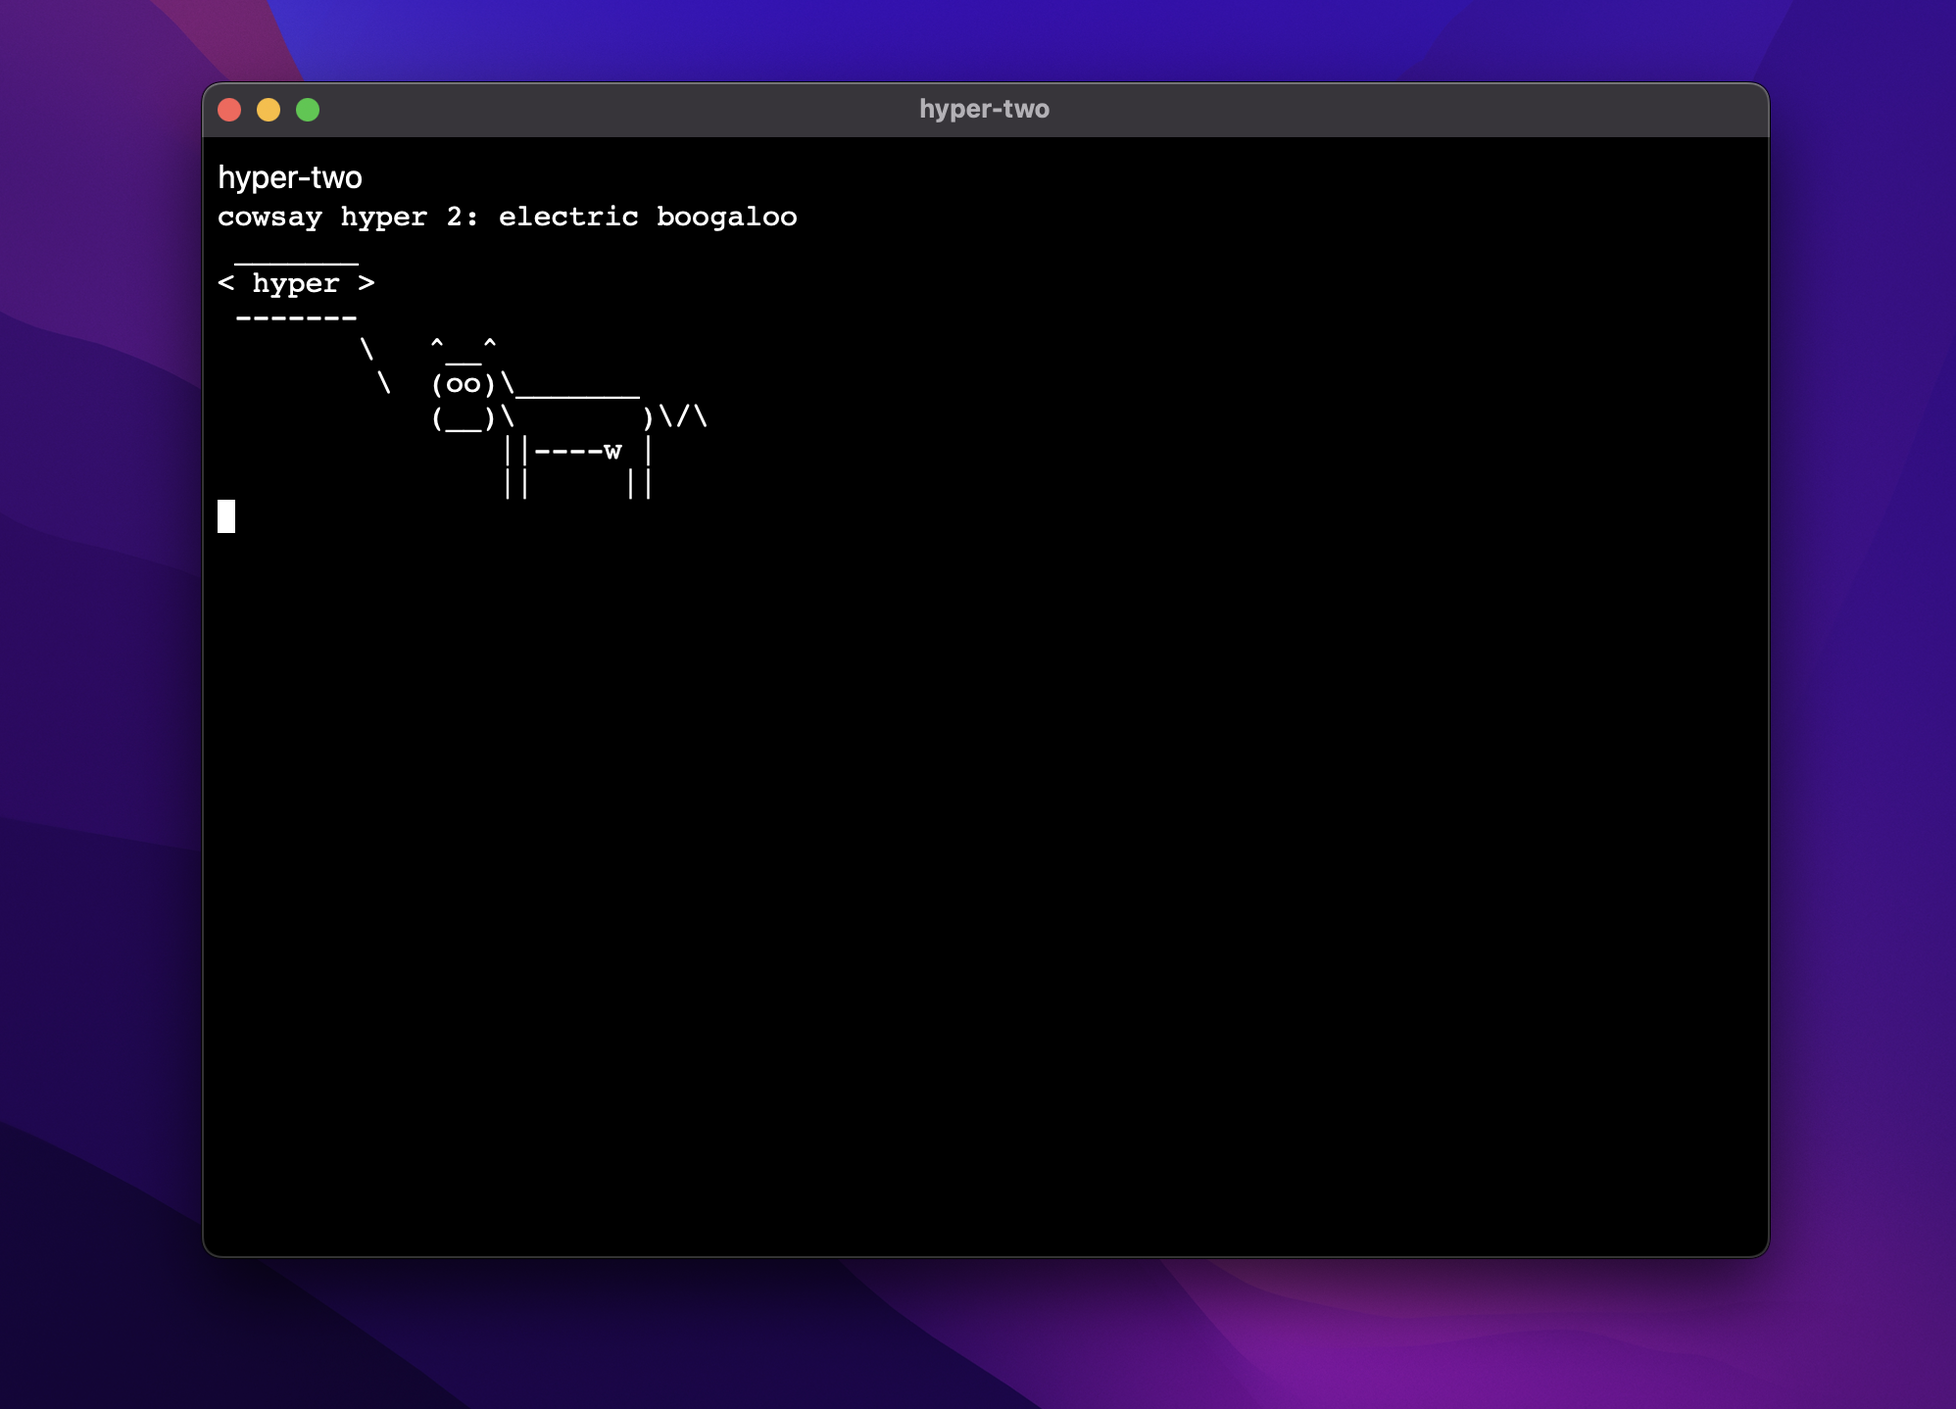
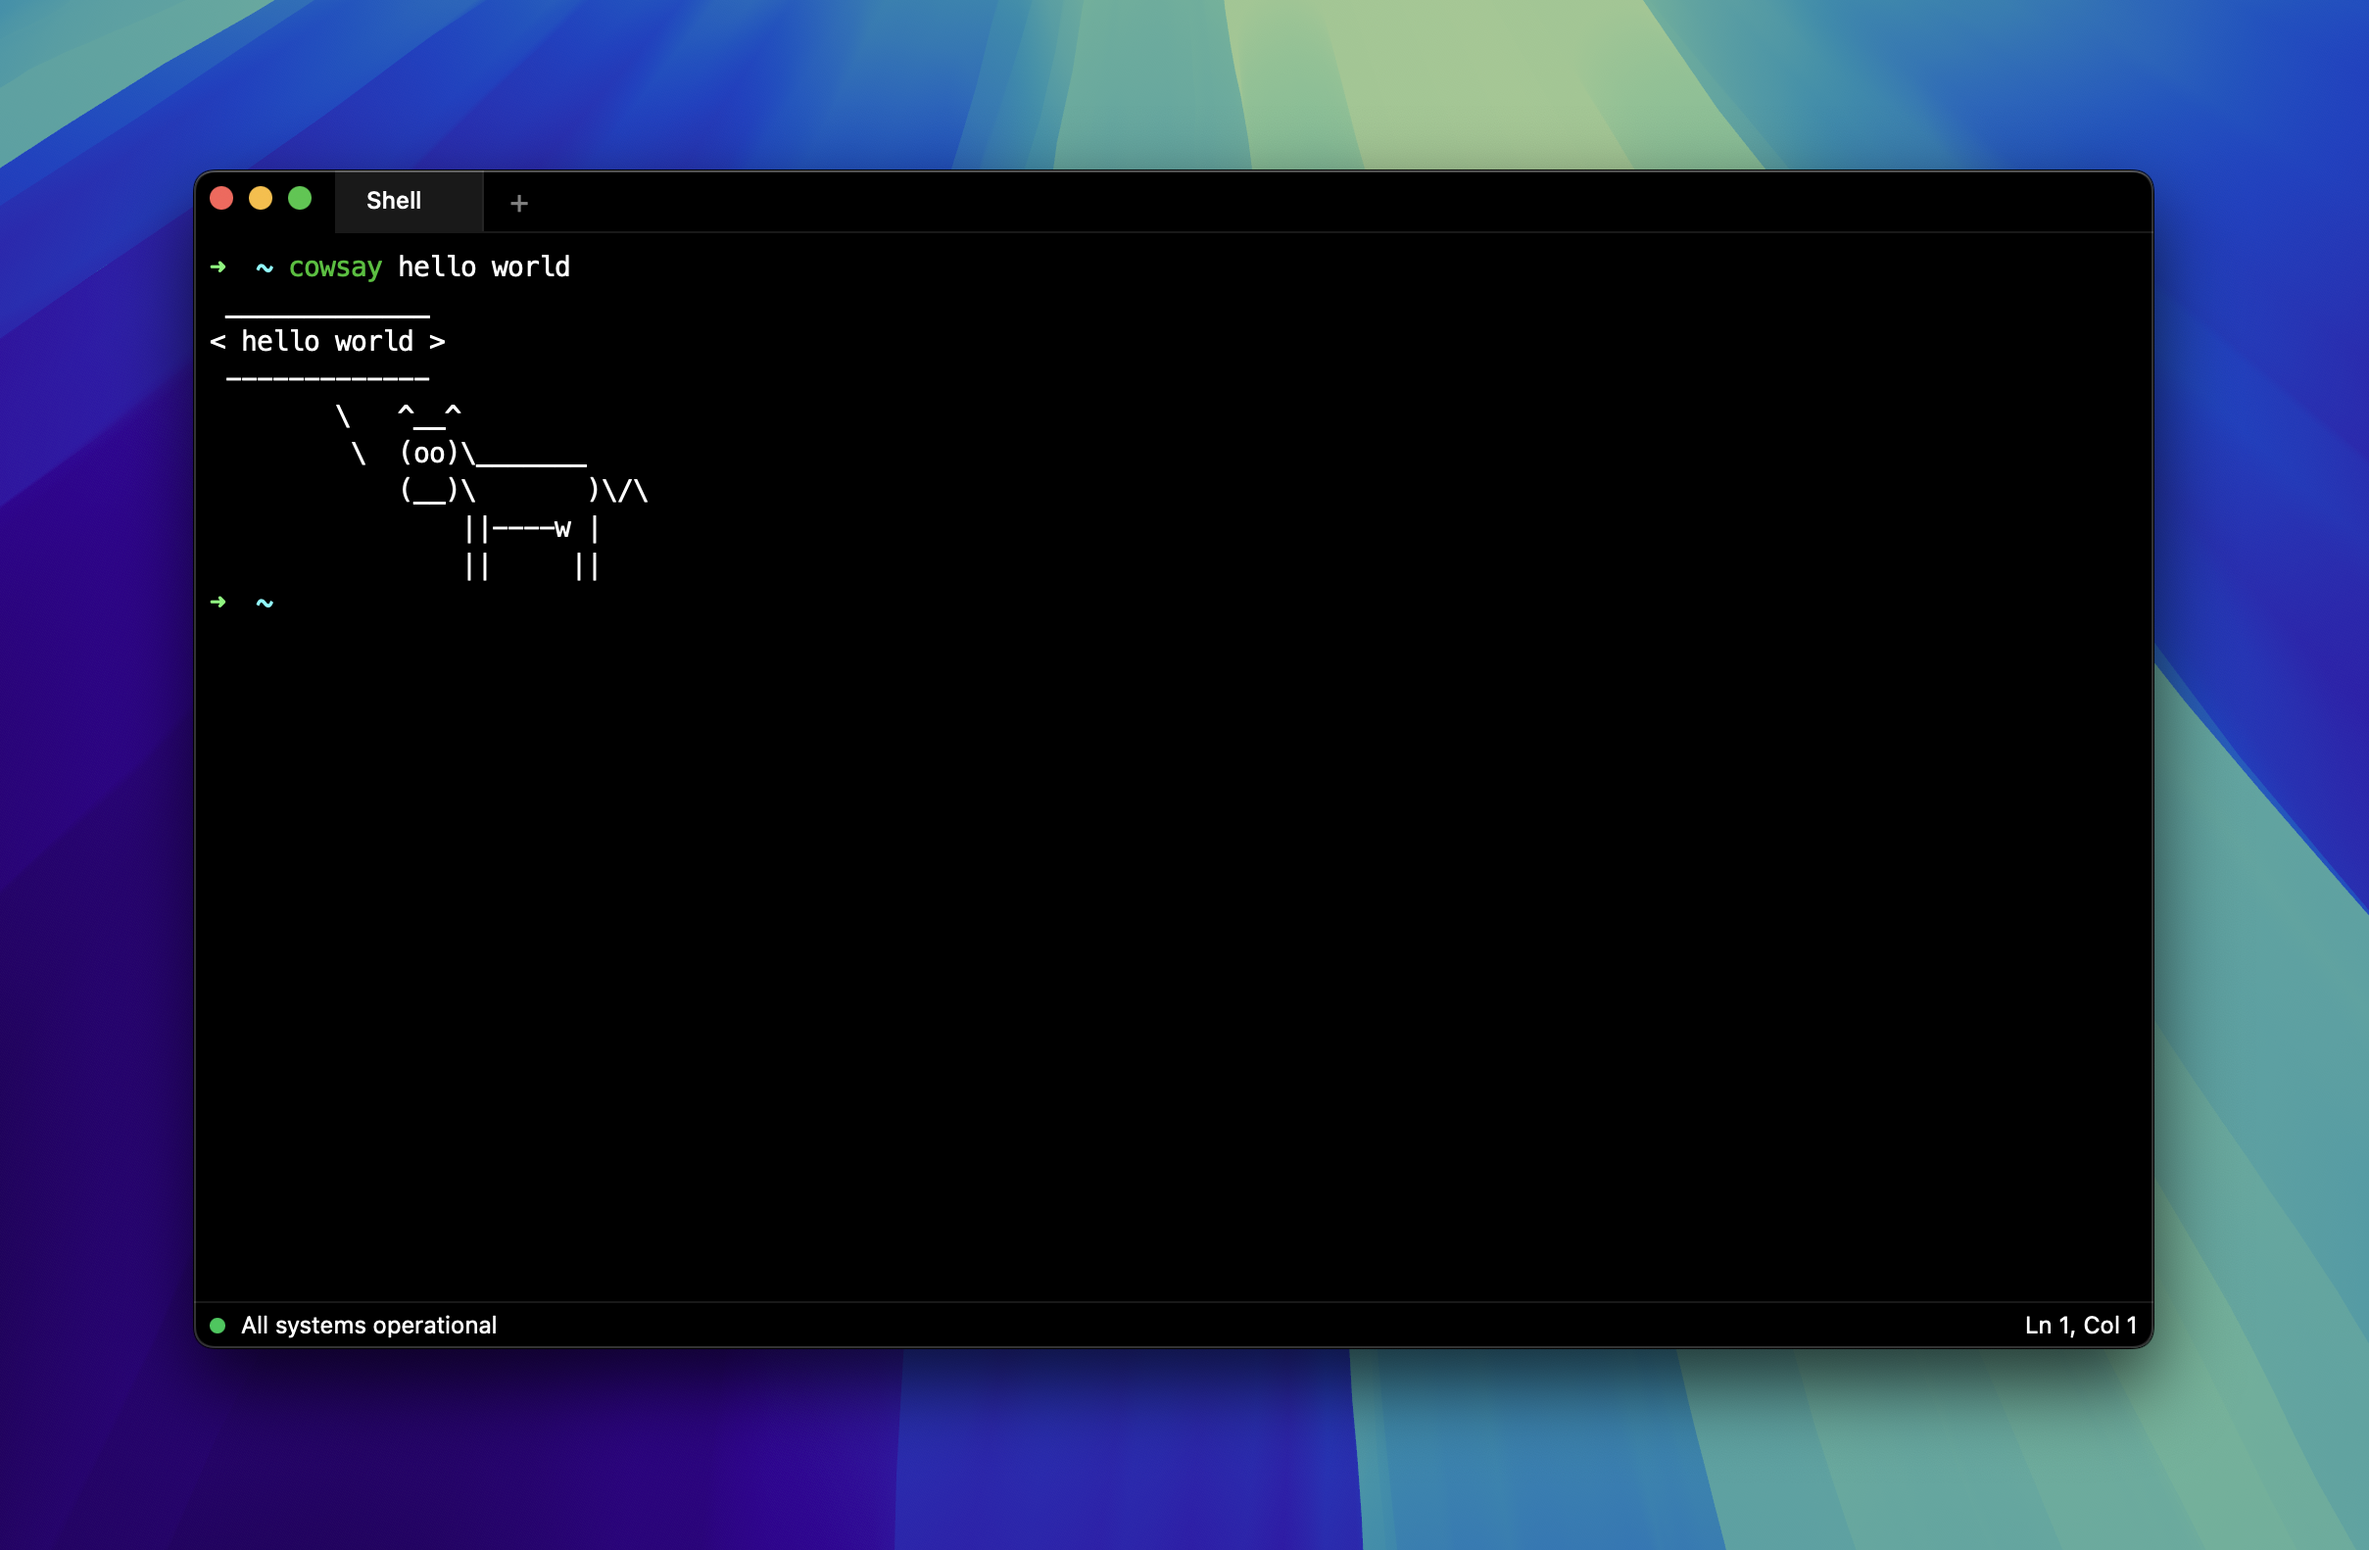
feat: Ultra

diff --git a/src/components/app.tsx b/src/components/app.tsx
@@ -1,8 +1,11 @@
 import { useCallback, useEffect, useState } from "react";
+import { Header } from "@/components/header";
+import { StatusBar } from "@/components/status-bar";
 import { Terminal } from "@/components/terminal";
+import { MAX_TABS } from "@/constants/settings";
 import { cn } from "@/utils";
 
-type Tab = {
+export type Tab = {
   id: string;
   title: string;
 };
@@ -12,10 +15,15 @@ export function App() {
   const [activeTabId, setActiveTabId] = useState<string>("init");
 
   const createTab = useCallback(() => {
+    if (tabs.length >= MAX_TABS) {
+      console.warn(`Maximum of ${MAX_TABS} tabs reached`);
+      return;
+    }
+
     const id = Math.random().toString(36).substring(2, 9);
     setTabs((prev) => [...prev, { id, title: "Shell" }]);
     setActiveTabId(id);
-  }, []);
+  }, [tabs.length]);
 
   const closeTab = useCallback(
     (id: string) => {
@@ -73,43 +81,13 @@ export function App() {
 
   return (
     <div className="flex h-screen flex-col bg-[#000000CC] text-white">
-      {tabs.length > 1 && (
-        <header className="flex h-9 w-full select-none border-white/10 border-b bg-black/40">
-          {tabs.map((tab) => (
-            <button
-              type="button"
-              key={tab.id}
-              onClick={() => setActiveTabId(tab.id)}
-              className={cn(
-                "group flex min-w-[150px] cursor-pointer items-center justify-center border-white/5 border-r px-4 text-xs",
-                tab.id === activeTabId
-                  ? "bg-white/10 font-medium text-white"
-                  : "text-white/50 hover:bg-white/5",
-              )}
-            >
-              <span className="max-w-[100px] truncate">{tab.title}</span>
-              <button
-                type="button"
-                onClick={(e) => {
-                  e.stopPropagation();
-                  closeTab(tab.id);
-                }}
-                className="ml-2 opacity-0 hover:opacity-100 group-hover:opacity-100"
-              >
-                x
-              </button>
-            </button>
-          ))}
-
-          <button
-            type="button"
-            onClick={createTab}
-            className="flex w-9 cursor-pointer items-center justify-center text-white/50 hover:text-white"
-          >
-            +
-          </button>
-        </header>
-      )}
+      <Header
+        tabs={tabs}
+        activeTabId={activeTabId}
+        setActiveTabId={setActiveTabId}
+        createTab={createTab}
+        closeTab={closeTab}
+      />
 
       {/* Terminal Container */}
       <main className="relative flex-1">
@@ -128,6 +106,8 @@ export function App() {
           </div>
         ))}
       </main>
+
+      <StatusBar />
     </div>
   );
 }

diff --git a/src/components/header.tsx b/src/components/header.tsx
@@ -1,0 +1,90 @@
+import { getCurrentWindow } from "@tauri-apps/api/window";
+import { platform } from "@tauri-apps/plugin-os";
+import { PlusIcon, XIcon } from "lucide-react";
+import { useEffect, useState } from "react";
+import type { Tab } from "@/components/app";
+import { cn } from "@/utils";
+
+export function Header({
+  tabs,
+  activeTabId,
+  setActiveTabId,
+  createTab,
+  closeTab,
+}: {
+  tabs: Tab[];
+  activeTabId: string;
+  setActiveTabId: (id: string) => void;
+  createTab: () => void;
+  closeTab: (id: string) => void;
+}) {
+  const [isFullscreen, setIsFullscreen] = useState<boolean>(false);
+
+  useEffect(() => {
+    let unlisten: () => void;
+
+    const initResize = async () => {
+      unlisten = await getCurrentWindow().onResized(async () => {
+        setIsFullscreen(await getCurrentWindow().isFullscreen());
+      });
+    };
+
+    initResize();
+
+    return () => {
+      unlisten?.();
+    };
+  }, []);
+
+  return (
+    <header
+      data-tauri-drag-region
+      className={cn("flex h-7 select-none overflow-x-scroll border-white/10 border-b bg-black/40", {
+        "pl-17": !isFullscreen && platform() === "macos",
+        "pr-17": !isFullscreen && platform() === "windows",
+      })}
+    >
+      {tabs.map((tab) => (
+        // biome-ignore lint/a11y/noStaticElementInteractions: tab is clickable
+        <div
+          data-tauri-drag-region
+          key={tab.id}
+          onClick={() => setActiveTabId(tab.id)}
+          className={cn(
+            "group flex cursor-pointer items-center justify-center border-white/5 border-r px-4 text-xs",
+            tab.id === activeTabId
+              ? "bg-white/10 font-medium text-white"
+              : "text-white/50 hover:bg-white/5",
+          )}
+          onKeyDown={(e) => {
+            if (e.key === "Enter" || e.key === " ") {
+              setActiveTabId(tab.id);
+            }
+          }}
+        >
+          <span data-tauri-drag-region className="max-w-40 truncate">
+            {tab.title}
+          </span>
+          <button
+            type="button"
+            onClick={(e) => {
+              e.stopPropagation();
+              closeTab(tab.id);
+            }}
+            className="ml-2 cursor-pointer opacity-0 transition-all hover:opacity-100 group-hover:opacity-100"
+          >
+            <XIcon className="size-3" />
+          </button>
+        </div>
+      ))}
+
+      <button
+        type="button"
+        onClick={createTab}
+        className="flex w-9 cursor-pointer items-center justify-center text-white/50 transition-all hover:text-white"
+      >
+        <PlusIcon className="size-3" />
+      </button>
+    </header>
+  );
+}

diff --git a/src/components/terminal.tsx b/src/components/terminal.tsx
@@ -9,30 +9,9 @@ import { WebLinksAddon } from "@xterm/addon-web-links";
 import { WebglAddon } from "@xterm/addon-webgl";
 import { Terminal as XtermTerminal } from "@xterm/xterm";
 import { useEffect, useRef } from "react";
+import { SCROLLBACK } from "@/constants/settings";
+import { THEME } from "@/constants/theme";
 import { cn } from "@/utils";
-
-const HYPER_THEME = {
-  foreground: "#fff",
-  background: "rgba(0, 0, 0, 0)",
-  cursor: "rgba(248,28,229,0.8)",
-  selectionBackground: "rgba(248,28,229,0.3)",
-  black: "#000000",
-  red: "#C51E14",
-  green: "#1DC121",
-  yellow: "#C7C329",
-  blue: "#0A2FC4",
-  magenta: "#C839C5",
-  cyan: "#20C5C6",
-  white: "#C7C7C7",
-  brightBlack: "#686868",
-  brightRed: "#FD6F6B",
-  brightGreen: "#67F86F",
-  brightYellow: "#FFFA72",
-  brightBlue: "#6A76FB",
-  brightMagenta: "#FD7CFC",
-  brightCyan: "#68FDFE",
-  brightWhite: "#FFFFFF",
-} as const;
 
 export function Terminal({
   id,
@@ -51,6 +30,7 @@ export function Terminal({
 
   useEffect(() => {
     if (!terminalRef.current) {
+      console.error("Terminal ref is null");
       return;
     }
 
@@ -61,10 +41,11 @@ export function Terminal({
       fontSize: 14,
       lineHeight: 1.2,
       letterSpacing: 0,
-      theme: HYPER_THEME,
+      theme: THEME,
       allowTransparency: true,
       macOptionIsMeta: true,
-      scrollback: 5000,
+      scrollback: SCROLLBACK,
+      allowProposedApi: true, // For ligatures
     });
 
     const fitAddon = new FitAddon();
@@ -183,7 +164,7 @@ export function Terminal({
   return (
     <div
       ref={terminalRef}
-      className={cn("h-screen w-full overflow-hidden p-2", isActive ? "block" : "hidden")}
+      className={cn("h-full w-full overflow-hidden p-2", isActive ? "block" : "hidden")}
     />
   );
 }

diff --git a/src/components/status-bar.tsx b/src/components/status-bar.tsx
@@ -1,0 +1,29 @@
+import { useState } from "react";
+import { cn } from "@/utils";
+
+const STATUS_COLORS = {
+  good: "bg-green-500",
+  warning: "bg-yellow-500",
+  error: "bg-red-500",
+} as const;
+type StatusType = keyof typeof STATUS_COLORS;
+
+export function StatusBar() {
+  const [statusType] = useState<StatusType>("good");
+  const [status] = useState<string>("All systems operational");
+  const [line] = useState<number>(1);
+  const [column] = useState<number>(1);
+
+  return (
+    <div className="flex h-6 w-full items-center border-white/10 border-t bg-black/40 px-2 text-xs">
+      <div className="flex items-center gap-2">
+        <span className={cn("inline-block size-2 rounded-full", STATUS_COLORS[statusType])} />
+        <span>{status}</span>
+      </div>
+      <div className="flex-1" />
+      <span>
+        Ln {line}, Col {column}
+      </span>
+    </div>
+  );
+}

diff --git a/src/constants/theme.ts b/src/constants/theme.ts
@@ -1,0 +1,24 @@
+import type { ITheme } from "@xterm/xterm";
+
+export const THEME: ITheme = {
+  foreground: "#fff",
+  background: "rgba(0, 0, 0, 0)",
+  cursor: "rgba(248,28,229,0.8)",
+  selectionBackground: "rgba(248,28,229,0.3)",
+  black: "#000000",
+  red: "#C51E14",
+  green: "#1DC121",
+  yellow: "#C7C329",
+  blue: "#0A2FC4",
+  magenta: "#C839C5",
+  cyan: "#20C5C6",
+  white: "#C7C7C7",
+  brightBlack: "#686868",
+  brightRed: "#FD6F6B",
+  brightGreen: "#67F86F",
+  brightYellow: "#FFFA72",
+  brightBlue: "#6A76FB",
+  brightMagenta: "#FD7CFC",
+  brightCyan: "#68FDFE",
+  brightWhite: "#FFFFFF",
+} as const;

diff --git a/index.html b/index.html
@@ -1,10 +1,12 @@
-<!doctype html>
+<!DOCTYPE html>
 <html lang="en">
   <head>
     <meta charset="utf-8" />
     <meta name="viewport" content="width=device-width, initial-scale=1.0" />
-    <link rel="icon" type="image/svg+xml" href="/vite.svg" />
-    <title>hyper-two</title>
+
+    <link rel="icon" type="image/svg+xml" href="/icon.svg" />
+
+    <title>Ultra</title>
   </head>
 
   <body>

diff --git a/src/main.tsx b/src/main.tsx
@@ -2,7 +2,7 @@ import "@/styles/globals.css";
 
 import React from "react";
 import ReactDOM from "react-dom/client";
-import { App } from "@/app";
+import { App } from "@/components/app";
 
 const root = document.getElementById("root");
 if (!root) {

diff --git a/src/styles/globals.css b/src/styles/globals.css
@@ -3,4 +3,7 @@
 :root {
   background: black;
   color: white;
+
+  /* Prevent elastic scroll on macOS */
+  overscroll-behavior: none;
 }

diff --git a/src/constants/settings.ts b/src/constants/settings.ts
@@ -1,0 +1,2 @@
+export const MAX_TABS = 10;
+export const SCROLLBACK = 4096;

diff --git a/src-tauri/src/lib.rs b/src-tauri/src/lib.rs
@@ -23,8 +23,8 @@ type AppState = Mutex<AppStateInner>;
 
 #[tauri::command]
 fn open_shell(
-  state: State<'_, AppState>,
   app_handle: AppHandle,
+  state: State<'_, AppState>,
   shell: &str,
   cols: u16,
   rows: u16,
@@ -37,11 +37,6 @@ fn open_shell(
     .openpty(PtySize {
       rows,
       cols,
-      // Not all systems support pixel_width, pixel_height,
-      // but it is good practice to set it to something
-      // that matches the size of the selected font.  That
-      // is more complex than can be shown here in this
-      // brief example though!
       pixel_width: 0,
       pixel_height: 0,
     })
@@ -170,6 +165,7 @@ pub fn run() {
       tauri::Builder::default()
         .setup(|app| {
           app.manage(AppState::default());
+
           return Ok(());
         })
         .plugin(tauri_plugin_os::init())

diff --git a/src-tauri/src/main.rs b/src-tauri/src/main.rs
@@ -2,5 +2,5 @@
 #![cfg_attr(not(debug_assertions), windows_subsystem = "windows")]
 
 fn main() {
-  hyper_two_lib::run()
+  ultra_lib::run()
 }

diff --git a/README.md b/README.md
@@ -1,17 +1,17 @@
 <p align="center">
-  <!-- <img src="./resources/icon.png" height="128" alt="hyper-two Icon"> -->
-  <img src="./resources/demo.png" height="512" alt="hyper-two Demo">
+  <!-- <img src="./resources/icon.png" height="128" alt="Ultra Icon"> -->
+  <img src="./resources/demo.png" height="512" alt="Ultra Demo">
 </p>
 
 <p align="center">
   <a href="">
     <!-- TODO: use GitHub workflow status -->
-    <img src="https://img.shields.io/badge/build-passing-brightgreen" alt="hyper-two Build Status">
+    <img src="https://img.shields.io/badge/build-passing-brightgreen" alt="Ultra Build Status">
   </a>
 </p>
 
-<h1 align="center">hyper-two (ultra)</h1>
-<p align="center">hyper two: electric boogaloo</p>
+<h1 align="center">Ultra</h1>
+<p align="center">The ultimate terminal emulator</p>
 
 ## Tech Stack
 
